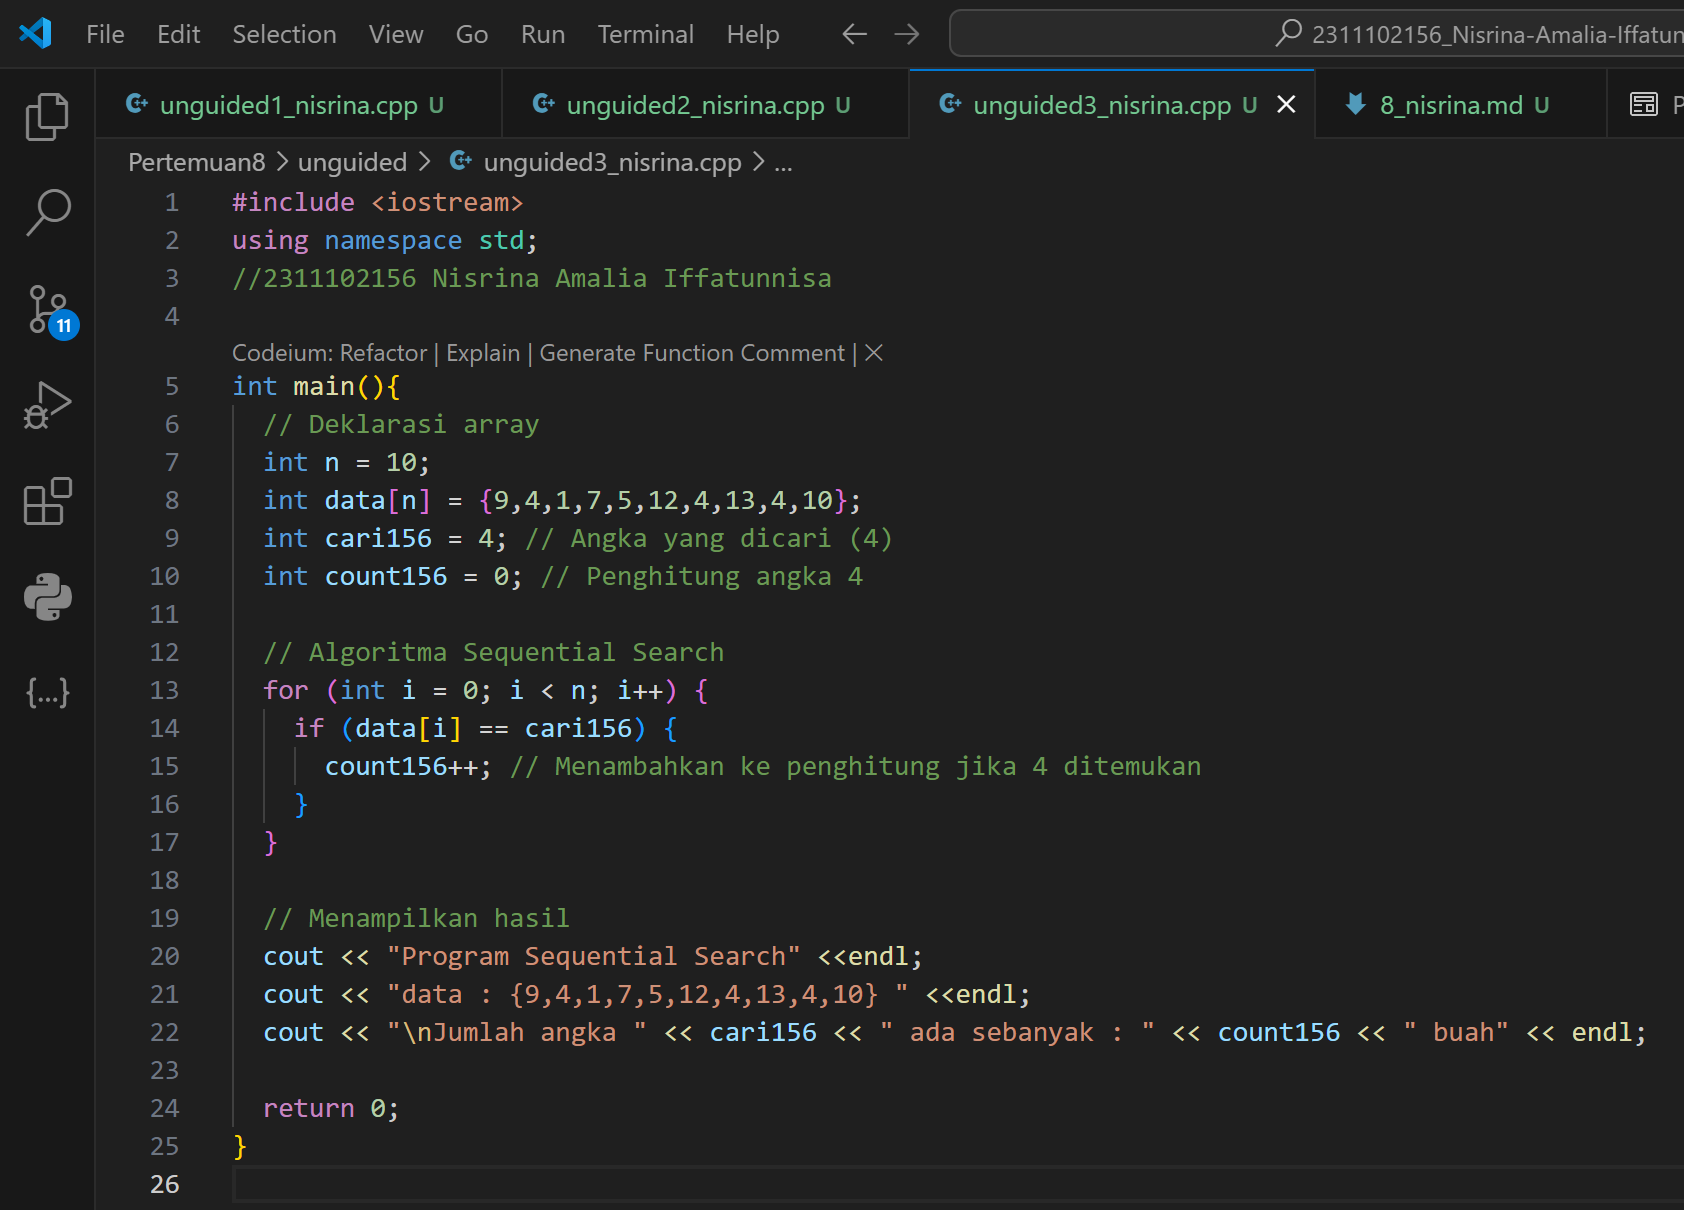
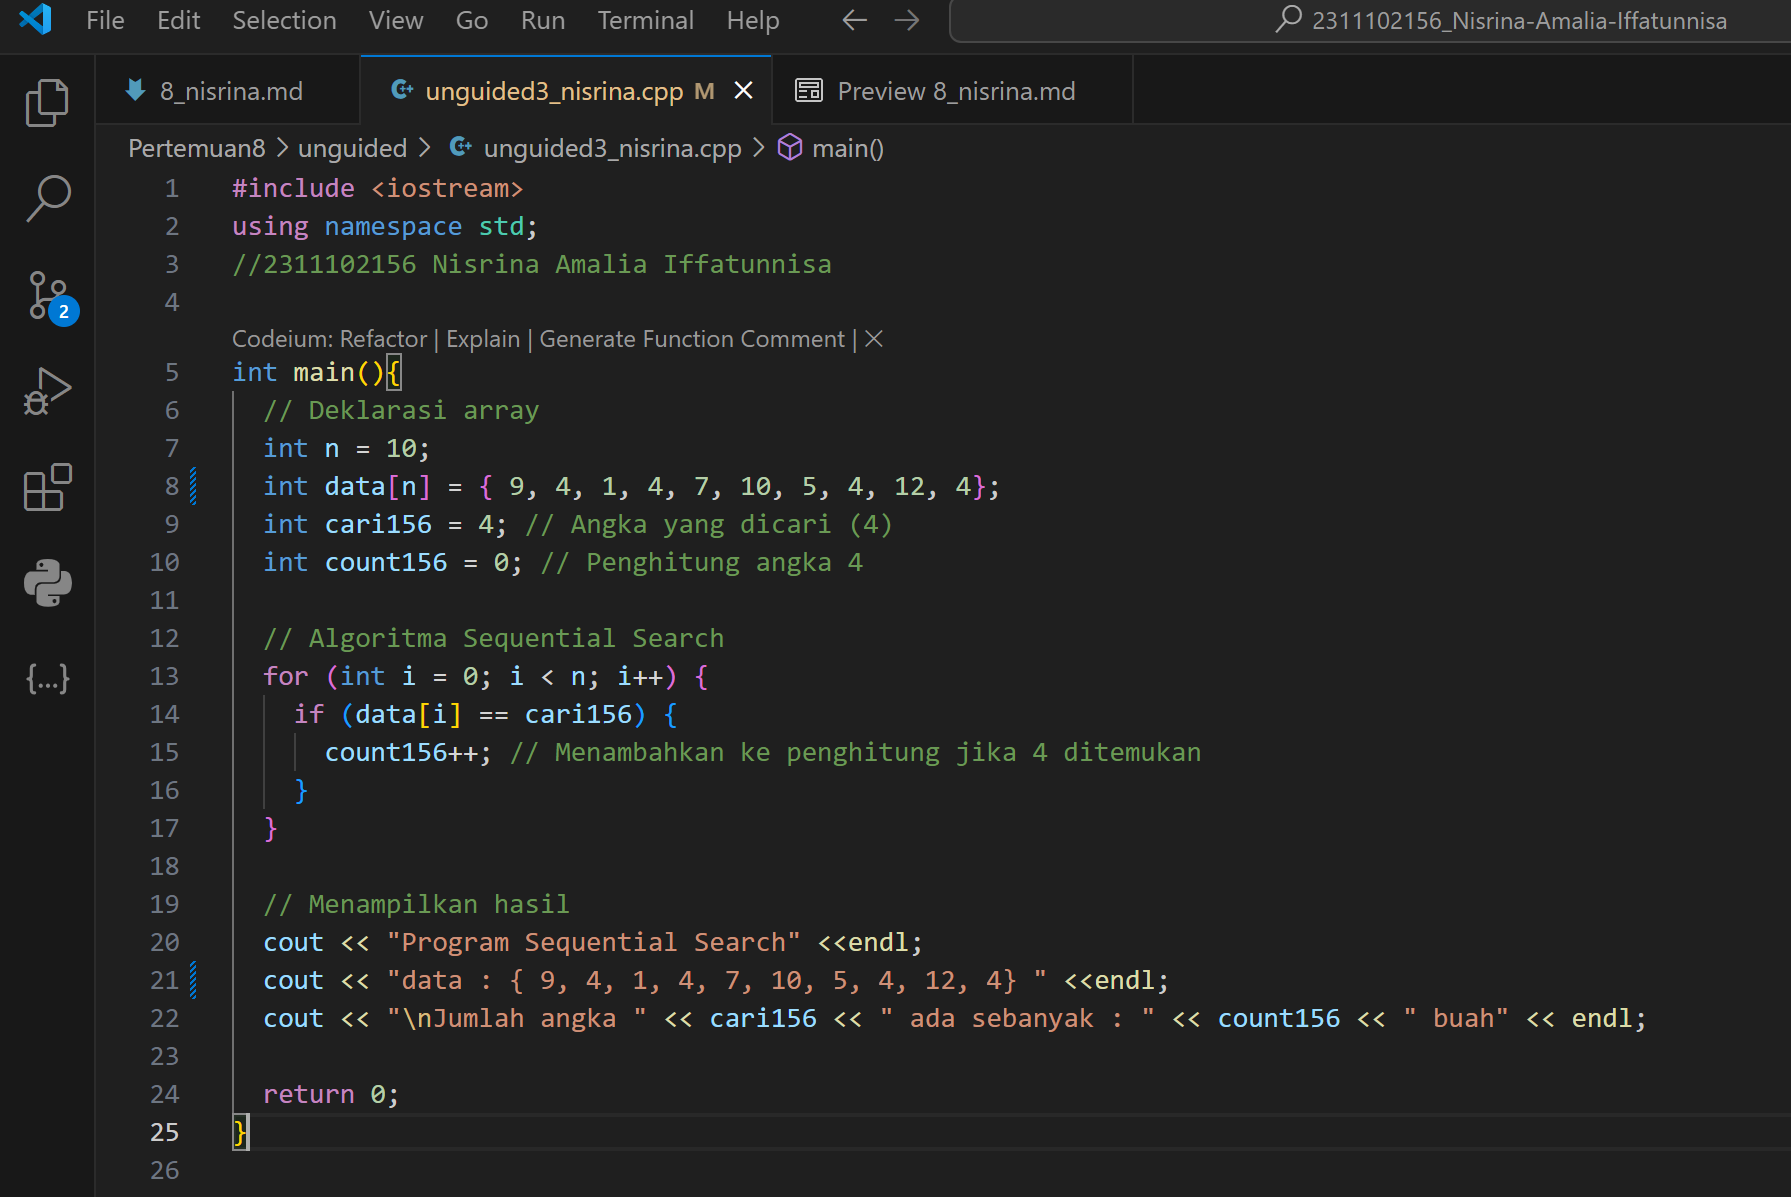
laprak modul 8 nisrin

diff --git a/Pertemuan8/unguided/unguided3_nisrina.cpp b/Pertemuan8/unguided/unguided3_nisrina.cpp
@@ -5,7 +5,7 @@ using namespace std;
 int main(){
   // Deklarasi array
   int n = 10;
-  int data[n] = {9,4,1,7,5,12,4,13,4,10};
+  int data[n] = { 9, 4, 1, 4, 7, 10, 5, 4, 12, 4};
   int cari156 = 4; // Angka yang dicari (4)
   int count156 = 0; // Penghitung angka 4
 
@@ -18,7 +18,7 @@ int main(){
 
   // Menampilkan hasil
   cout << "Program Sequential Search" <<endl;
-  cout << "data : {9,4,1,7,5,12,4,13,4,10} " <<endl;
+  cout << "data : { 9, 4, 1, 4, 7, 10, 5, 4, 12, 4} " <<endl;
   cout << "\nJumlah angka " << cari156 << " ada sebanyak : " << count156 << " buah" << endl;
 
   return 0;
